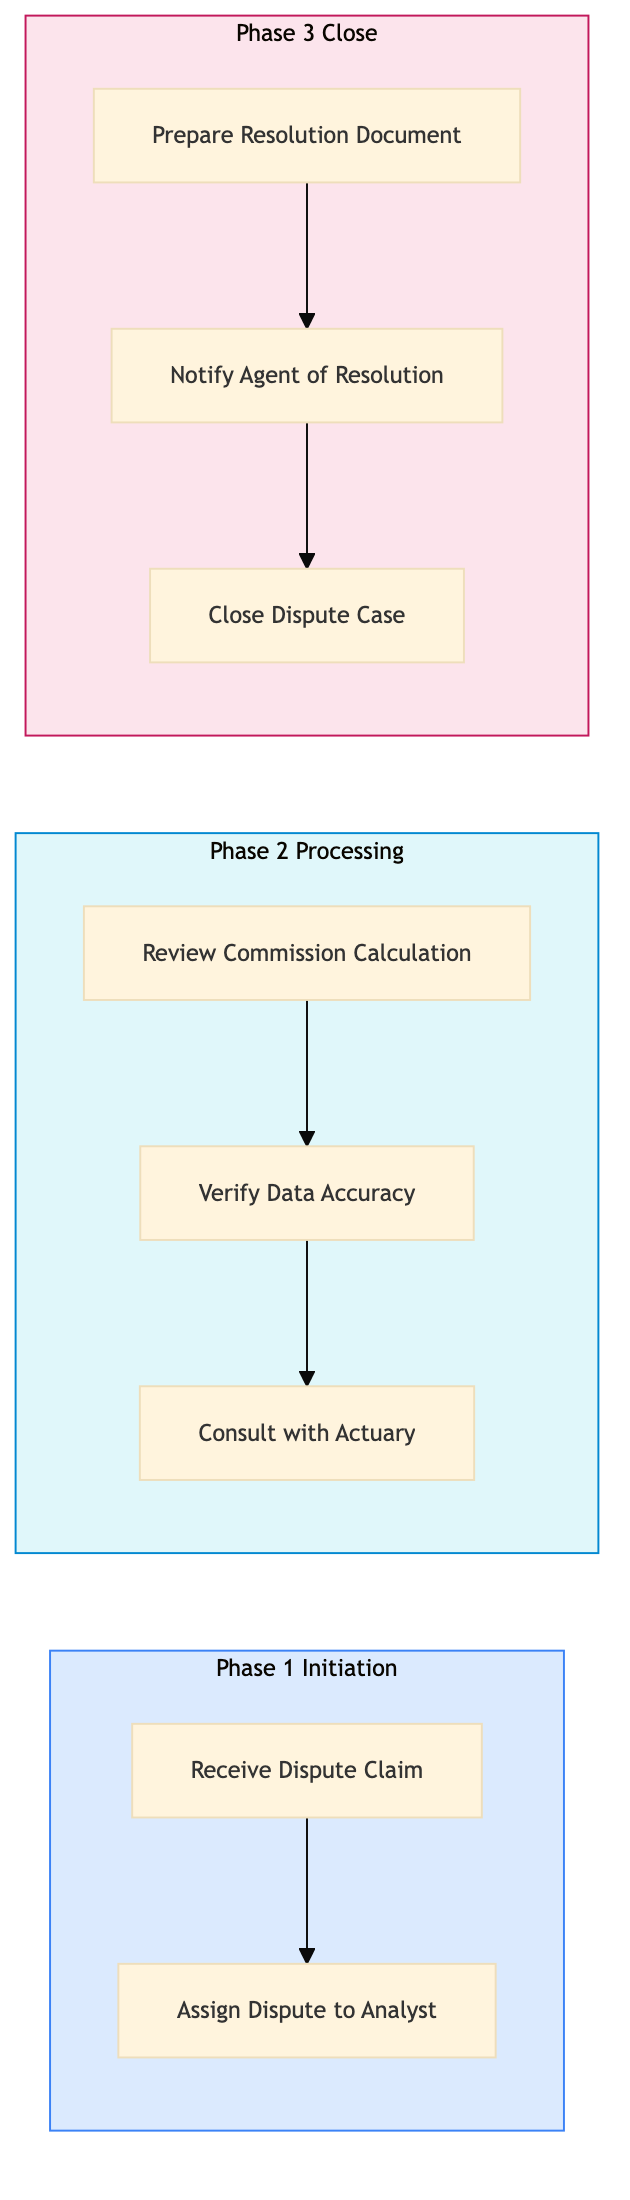
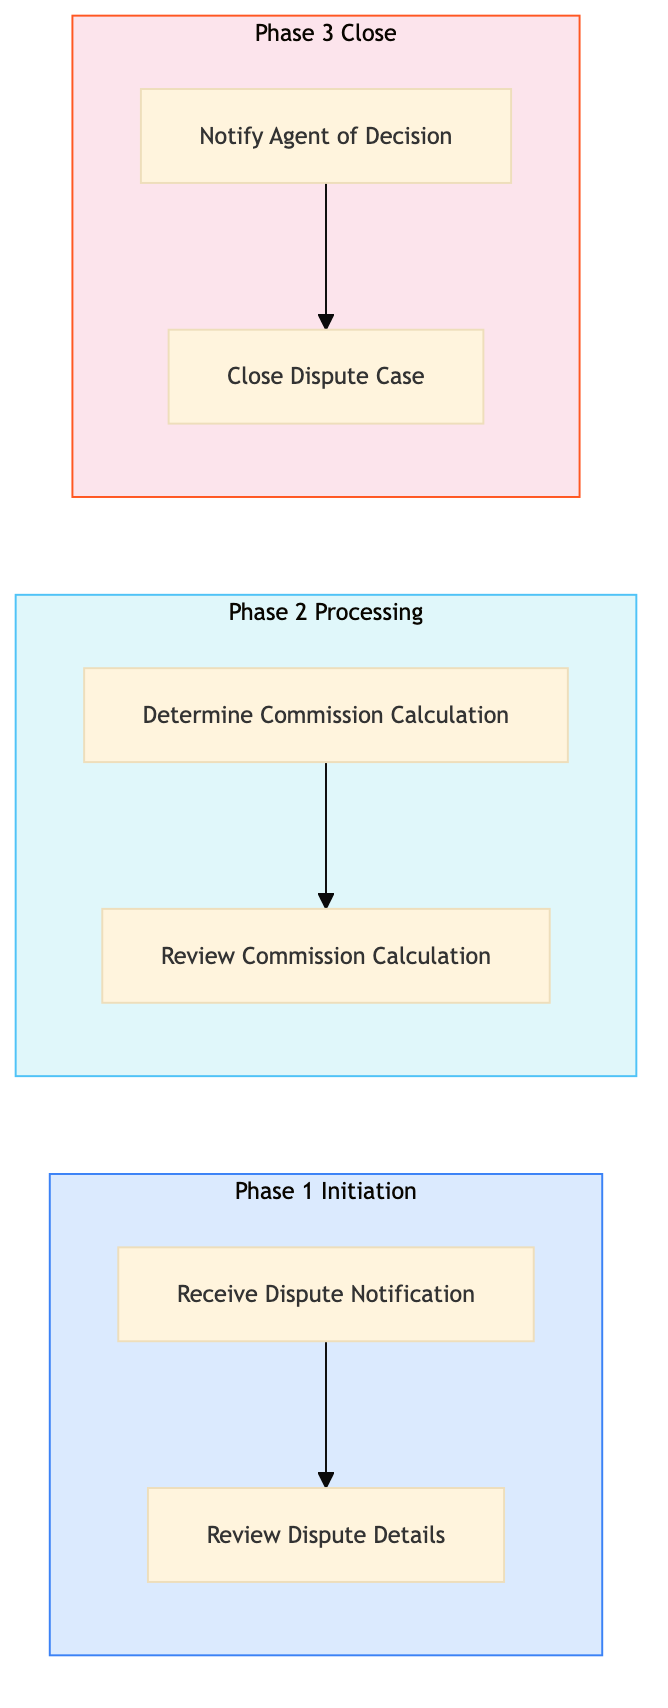
feat: add AAA-IN-AG-07 — Agent Commission Dispute Resolution

diff --git a/aaa-insurance/agency-operations/aaa-in-ag-07.html b/aaa-insurance/agency-operations/aaa-in-ag-07.html
@@ -23,40 +23,16 @@
     <div class="nav-l2-group">
       <a class="nav-l2-title" href="../../shared-membership/membership-enrolment/index.html">Membership Enrolment & Sales</a>
       <div class="nav-l3-list">
-        <a class="nav-l3" href="../../shared-membership/membership-enrolment/shared-mb-en-01.html">SHARED-MB-EN-01 &mdash; New Member Walk-In Enrolment (Branch)</a>
-        <a class="nav-l3" href="../../shared-membership/membership-enrolment/shared-mb-en-02.html">SHARED-MB-EN-02 &mdash; Online Membership Self-Enrolment (Web/Ap</a>
-        <a class="nav-l3" href="../../shared-membership/membership-enrolment/shared-mb-en-03.html">SHARED-MB-EN-03 &mdash; Phone Enrolment via Contact Centre</a>
-        <a class="nav-l3" href="../../shared-membership/membership-enrolment/shared-mb-en-04.html">SHARED-MB-EN-04 &mdash; Affiliate and Employer Group Enrolment</a>
-        <a class="nav-l3" href="../../shared-membership/membership-enrolment/shared-mb-en-05.html">SHARED-MB-EN-05 &mdash; Membership Tier Selection and Upsell</a>
-        <a class="nav-l3" href="../../shared-membership/membership-enrolment/shared-mb-en-06.html">SHARED-MB-EN-06 &mdash; Payment Processing and First-Year Billin</a>
-        <a class="nav-l3" href="../../shared-membership/membership-enrolment/shared-mb-en-07.html">SHARED-MB-EN-07 &mdash; Welcome Kit and Digital Card Issuance</a>
-        <a class="nav-l3" href="../../shared-membership/membership-enrolment/shared-mb-en-08.html">SHARED-MB-EN-08 &mdash; Duplicate Member Detection and Merge</a>
       </div>
     </div>
     <div class="nav-l2-group">
       <a class="nav-l2-title" href="../../shared-membership/membership-renewal/index.html">Membership Renewal & Retention</a>
       <div class="nav-l3-list">
-        <a class="nav-l3" href="../../shared-membership/membership-renewal/shared-mb-rn-01.html">SHARED-MB-RN-01 &mdash; Annual Renewal Notice Generation and Dis</a>
-        <a class="nav-l3" href="../../shared-membership/membership-renewal/shared-mb-rn-02.html">SHARED-MB-RN-02 &mdash; Auto-Renewal Processing (Credit Card on </a>
-        <a class="nav-l3" href="../../shared-membership/membership-renewal/shared-mb-rn-03.html">SHARED-MB-RN-03 &mdash; Lapsed Member Reinstatement Campaign</a>
-        <a class="nav-l3" href="../../shared-membership/membership-renewal/shared-mb-rn-04.html">SHARED-MB-RN-04 &mdash; Membership Upgrade and Tier Change Proce</a>
-        <a class="nav-l3" href="../../shared-membership/membership-renewal/shared-mb-rn-05.html">SHARED-MB-RN-05 &mdash; Associate and Household Member Add-On Pr</a>
-        <a class="nav-l3" href="../../shared-membership/membership-renewal/shared-mb-rn-06.html">SHARED-MB-RN-06 &mdash; Cancellation Request Handling and Save O</a>
-        <a class="nav-l3" href="../../shared-membership/membership-renewal/shared-mb-rn-07.html">SHARED-MB-RN-07 &mdash; Renewal Rate Review and Pricing Update</a>
-        <a class="nav-l3" href="../../shared-membership/membership-renewal/shared-mb-rn-08.html">SHARED-MB-RN-08 &mdash; Membership Winback Campaign (12-36 Month</a>
       </div>
     </div>
     <div class="nav-l2-group">
       <a class="nav-l2-title" href="../../shared-membership/member-services/index.html">Member Services & Benefits</a>
       <div class="nav-l3-list">
-        <a class="nav-l3" href="../../shared-membership/member-services/shared-mb-sv-01.html">SHARED-MB-SV-01 &mdash; Member Discount Partner Redemption</a>
-        <a class="nav-l3" href="../../shared-membership/member-services/shared-mb-sv-02.html">SHARED-MB-SV-02 &mdash; Passport Photo Service Delivery (Branch)</a>
-        <a class="nav-l3" href="../../shared-membership/member-services/shared-mb-sv-03.html">SHARED-MB-SV-03 &mdash; International Driving Permit (IDP) Proce</a>
-        <a class="nav-l3" href="../../shared-membership/member-services/shared-mb-sv-04.html">SHARED-MB-SV-04 &mdash; Notary and Document Authentication Servi</a>
-        <a class="nav-l3" href="../../shared-membership/member-services/shared-mb-sv-05.html">SHARED-MB-SV-05 &mdash; Member Portal Profile and Preferences Ma</a>
-        <a class="nav-l3" href="../../shared-membership/member-services/shared-mb-sv-06.html">SHARED-MB-SV-06 &mdash; Lost and Stolen Membership Card Replacem</a>
-        <a class="nav-l3" href="../../shared-membership/member-services/shared-mb-sv-07.html">SHARED-MB-SV-07 &mdash; Member Data Privacy Request (CCPA and PI</a>
-        <a class="nav-l3" href="../../shared-membership/member-services/shared-mb-sv-08.html">SHARED-MB-SV-08 &mdash; Member Satisfaction Survey and NPS Track</a>
       </div>
     </div>
   </div>
@@ -310,7 +286,7 @@
           <span class="pid-badge org-badge-aaa">AAA</span>
           AAA-IN-AG-07 &mdash; Agent Commission Dispute Resolution
         </h1>
-        <p>This process resolves disputes regarding agent commissions for AAA Northeast. It involves reviewing commission calculations, verifying data accuracy, and communicating the resolution to all parties involved.</p>
+        <p>This process outlines the steps for resolving agent commission disputes within AAA Northeast. It involves communication between agents, management, and external systems to ensure fair resolution.</p>
       </div>
 
       <!-- BPMN Diagram -->
@@ -336,10 +312,10 @@
             <tr><th>L1 Domain</th><td>AAA Insurance</td></tr>
             <tr><th>L2 Process</th><td>Insurance Agency Operations</td></tr>
             <tr><th>L3 Name</th><td>Agent Commission Dispute Resolution</td></tr>
-            <tr><th>Trigger</th><td>A licensed insurance agent submits a formal dispute claim through the Salesforce platform.</td></tr>
-            <tr><th>Outcome</th><td>The dispute is resolved with a clear decision on the commission amount, documented in both Guidewire Cloud and Salesforce systems. The agent receives a notification of the resolution via email.</td></tr>
-            <tr><th>Org Notes</th><td>AAA Northeast specifically uses the Guidewire Cloud for policy management and claims processing, whereas CAA SCO might use different tools like ClientBase and Power BI.</td></tr>
-            <tr><th>Systems</th><td><span class="sys-tag salesforce">Salesforce</span> <span class="sys-tag guidewire">Guidewire Cloud</span> <span class="sys-tag sabre">Sabre GDS</span> <span class="sys-tag verisk">Verisk ISO rating</span></td></tr>
+            <tr><th>Trigger</th><td>A licensed insurance agent initiates a dispute regarding their commission payment or calculation.</td></tr>
+            <tr><th>Outcome</th><td>The successful completion of this process results in a resolution that is accepted by the agent, ensuring fairness and adherence to AAA policies.</td></tr>
+            <tr><th>Org Notes</th><td>AAA Northeast may have specific regional policies and procedures that differ from other AAA regions. Additionally, the use of Guidewire Cloud for policy management and Salesforce for customer interactions adds complexity compared to CAA's processes.</td></tr>
+            <tr><th>Systems</th><td><span class="sys-tag guidewire">Guidewire Cloud</span> <span class="sys-tag salesforce">Salesforce</span> <span class="sys-tag verisk">Verisk ISO rating</span></td></tr>
           </table>
         </div>
       </div>
@@ -360,97 +336,73 @@
               <tbody>
         <tr>
           <td class="step-num">1.1</td>
-          <td>Receive Dispute Claim</td>
+          <td>Receive Dispute Notification</td>
           <td>Licensed Insurance Agent</td>
           <td><span class="sys-tag salesforce">Salesforce</span></td>
-          <td>Dispute claim form</td>
-          <td>Dispute ticket in Salesforce</td>
-          <td>Time to acknowledge dispute within 24 hours</td>
-          <td>Delays in acknowledging disputes can lead to customer dissatisfaction.</td>
+          <td>Dispute Form</td>
+          <td>Acknowledgment Email</td>
+          <td>Time to Acknowledge < 24 hours</td>
+          <td>Delays in dispute acknowledgment can escalate tensions.</td>
           <td>N</td>
           <td><span class="exception-y">Y</span></td>
         </tr>
         <tr>
           <td class="step-num">1.2</td>
-          <td>Assign Dispute to Analyst</td>
-          <td>Insurance Operations Analyst</td>
-          <td><span class="sys-tag salesforce">Salesforce</span></td>
-          <td>Dispute ticket in Salesforce</td>
-          <td>Assigned dispute case</td>
-          <td>Cases assigned within 4 hours of receipt</td>
-          <td>Overlooking disputes can result in prolonged resolution times.</td>
+          <td>Review Dispute Details</td>
+          <td>Agent Relations Manager</td>
+          <td><span class="sys-tag guidewire">Guidewire Cloud</span></td>
+          <td>Dispute Form and Policy Records</td>
+          <td>Dispute Review Report</td>
+          <td>Time to Review < 48 hours</td>
+          <td>Inaccurate policy data can lead to incorrect dispute resolutions.</td>
+          <td><span class="decision-y">Y</span></td>
           <td>N</td>
-          <td><span class="exception-y">Y</span></td>
         </tr>
         <tr>
           <td class="step-num">2.1</td>
-          <td>Review Commission Calculation</td>
-          <td>Insurance Operations Analyst</td>
-          <td><span class="sys-tag guidewire">Guidewire Cloud</span></td>
-          <td>Agent's policy data and commission rules</td>
-          <td>Commission calculation report</td>
-          <td>Calculation review completed within 24 hours</td>
-          <td>Inaccurate calculations can lead to disputes.</td>
+          <td>Determine Commission Calculation</td>
+          <td>Claims Adjuster</td>
+          <td><span class="sys-tag verisk">Verisk ISO rating</span></td>
+          <td>Policy Records and Claim Data</td>
+          <td>Commission Calculation Report</td>
+          <td>Accuracy of Calculation > 95%</td>
+          <td>Errors in commission calculations can lead to disputes.</td>
           <td><span class="decision-y">Y</span></td>
           <td>N</td>
         </tr>
         <tr>
           <td class="step-num">2.2</td>
-          <td>Verify Data Accuracy</td>
-          <td>Data Analyst</td>
-          <td><span class="sys-tag sabre">Sabre GDS</span></td>
-          <td>Policy transaction data</td>
-          <td>Data verification report</td>
-          <td>Data verification completed within 48 hours</td>
-          <td>Incorrect data can lead to erroneous calculations.</td>
-          <td><span class="decision-y">Y</span></td>
-          <td>N</td>
-        </tr>
-        <tr>
-          <td class="step-num">2.3</td>
-          <td>Consult with Actuary</td>
-          <td>Actuary</td>
-          <td><span class="sys-tag verisk">Verisk ISO rating</span></td>
-          <td>Commission calculation report and data verification report</td>
-          <td>Actuarial review report</td>
-          <td>Actuarial review completed within 72 hours</td>
-          <td>Inconsistent actuarial guidance can complicate dispute resolution.</td>
+          <td>Review Commission Calculation</td>
+          <td>Agent Relations Manager</td>
+          <td><span class="sys-tag guidewire">Guidewire Cloud</span></td>
+          <td>Commission Calculation Report</td>
+          <td>Final Commission Decision</td>
+          <td>Time to Final Decision < 72 hours</td>
+          <td>Delays in final decision-making can frustrate agents.</td>
           <td><span class="decision-y">Y</span></td>
           <td>N</td>
         </tr>
         <tr>
           <td class="step-num">3.1</td>
-          <td>Prepare Resolution Document</td>
-          <td>Insurance Operations Analyst</td>
-          <td><span class="sys-tag guidewire">Guidewire Cloud and Salesforce</span></td>
-          <td>Actuarial review report</td>
-          <td>Resolution document</td>
-          <td>Resolution document prepared within 24 hours of actuarial review</td>
-          <td>Delays in preparing the resolution can prolong the dispute.</td>
+          <td>Notify Agent of Decision</td>
+          <td>Agent Relations Manager</td>
+          <td><span class="sys-tag salesforce">Salesforce</span></td>
+          <td>Final Commission Decision</td>
+          <td>Notification Email</td>
+          <td>Time to Notify < 24 hours</td>
+          <td>Late notifications can cause further dissatisfaction.</td>
           <td>N</td>
           <td><span class="exception-y">Y</span></td>
         </tr>
         <tr>
           <td class="step-num">3.2</td>
-          <td>Notify Agent of Resolution</td>
-          <td>Insurance Operations Analyst</td>
-          <td><span class="sys-tag salesforce">Salesforce and Email</span></td>
-          <td>Resolution document</td>
-          <td>Notification email to agent</td>
-          <td>Agent notified within 48 hours of resolution preparation</td>
-          <td>Failure to notify promptly can lead to unresolved disputes.</td>
-          <td>N</td>
-          <td><span class="exception-y">Y</span></td>
-        </tr>
-        <tr>
-          <td class="step-num">3.3</td>
           <td>Close Dispute Case</td>
-          <td>Insurance Operations Analyst</td>
-          <td><span class="sys-tag salesforce">Salesforce</span></td>
-          <td>Notification email confirmation</td>
-          <td>Closed dispute case in Salesforce</td>
-          <td>Dispute case closed within 24 hours of notification</td>
-          <td>Open cases can lead to ongoing administrative burdens.</td>
+          <td>Agent Relations Manager</td>
+          <td><span class="sys-tag guidewire">Guidewire Cloud</span></td>
+          <td>Final Commission Decision and Agent Acknowledgment</td>
+          <td>Closed Dispute Case</td>
+          <td>Dispute Resolution Rate > 90%</td>
+          <td>Unresolved disputes can lead to ongoing issues.</td>
           <td>N</td>
           <td><span class="exception-y">Y</span></td>
         </tr>
@@ -465,9 +417,9 @@
         <div class="card-header">&#x1F4CA; KPIs &amp; Risk Register</div>
         <div class="card-body">
           <p class="mb-8"><strong>KPIs</strong></p>
-          <div class="kpi-list mb-8"><span class="kpi-pill">Time to acknowledge dispute within 24 hours</span> <span class="kpi-pill">Cases assigned within 4 hours of receipt</span> <span class="kpi-pill">Calculation review completed within 24 hours</span> <span class="kpi-pill">Data verification completed within 48 hours</span> <span class="kpi-pill">Actuarial review completed within 72 hours</span></div>
+          <div class="kpi-list mb-8"><span class="kpi-pill">Time to Acknowledge < 24 hours</span> <span class="kpi-pill">Accuracy of Calculation > 95%</span> <span class="kpi-pill">Time to Final Decision < 72 hours</span> <span class="kpi-pill">Time to Notify < 24 hours</span> <span class="kpi-pill">Dispute Resolution Rate > 90%</span></div>
           <p class="mb-8" style="margin-top:16px"><strong>Key Risks</strong></p>
-          <div class="kpi-list"><span class="risk-pill">Inaccurate commission calculations leading to disputes</span> <span class="risk-pill">Incorrect data in Sabre GDS causing erroneous reviews</span> <span class="risk-pill">Delays in actuarial guidance complicating dispute resolution</span> <span class="risk-pill">Failure to notify agents promptly resulting in unresolved cases</span> <span class="risk-pill">Open dispute cases creating administrative burdens</span></div>
+          <div class="kpi-list"><span class="risk-pill">Inaccurate policy data leading to incorrect dispute resolutions.</span> <span class="risk-pill">Errors in commission calculations causing disputes.</span> <span class="risk-pill">Delays in final decision-making frustrating agents.</span> <span class="risk-pill">Late notifications causing further dissatisfaction.</span> <span class="risk-pill">Unresolved disputes leading to ongoing issues.</span></div>
         </div>
       </div>
 

diff --git a/aaa-insurance/agency-operations/index.html b/aaa-insurance/agency-operations/index.html
@@ -87,6 +87,7 @@
         <a class="nav-l3" href="../../aaa-insurance/agency-operations/aaa-in-ag-03.html">AAA-IN-AG-03 &mdash; Agency Performance Reporting and Scoreca</a>
         <a class="nav-l3" href="../../aaa-insurance/agency-operations/aaa-in-ag-04.html">AAA-IN-AG-04 &mdash; E and O Compliance Review</a>
         <a class="nav-l3" href="../../aaa-insurance/agency-operations/aaa-in-ag-05.html">AAA-IN-AG-05 &mdash; Cross-Sell Insurance to Existing AAA Mem</a>
+        <a class="nav-l3" href="../../aaa-insurance/agency-operations/aaa-in-ag-06.html">AAA-IN-AG-06 &mdash; Insurance Lead Management and Pipeline (</a>
       </div>
     </div>
   </div>
@@ -278,7 +279,7 @@
           <a href="../index.html">AAA Insurance</a>
         </div>
         <h1>🛡 Insurance Agency Operations</h1>
-        <p>5 of 8 processes complete</p>
+        <p>6 of 8 processes complete</p>
       </div>
       <div class="card">
         <div class="card-header">Process List</div>
@@ -290,7 +291,7 @@
 <tr><td><a href="aaa-in-ag-03.html">AAA-IN-AG-03</a></td><td>Agency Performance Reporting and Scorecard</td><td><span style="color:#16a34a;font-weight:700">&#x2705; Complete</span></td></tr>
 <tr><td><a href="aaa-in-ag-04.html">AAA-IN-AG-04</a></td><td>E and O Compliance Review</td><td><span style="color:#16a34a;font-weight:700">&#x2705; Complete</span></td></tr>
 <tr><td><a href="aaa-in-ag-05.html">AAA-IN-AG-05</a></td><td>Cross-Sell Insurance to Existing AAA Members</td><td><span style="color:#16a34a;font-weight:700">&#x2705; Complete</span></td></tr>
-<tr><td>AAA-IN-AG-06</td><td>Insurance Lead Management and Pipeline (Salesforce)</td><td><span style="color:#94a3b8">&#x23F3; Queued</span></td></tr>
+<tr><td><a href="aaa-in-ag-06.html">AAA-IN-AG-06</a></td><td>Insurance Lead Management and Pipeline (Salesforce)</td><td><span style="color:#16a34a;font-weight:700">&#x2705; Complete</span></td></tr>
 <tr><td>AAA-IN-AG-07</td><td>Agent Commission Dispute Resolution</td><td><span style="color:#94a3b8">&#x23F3; Queued</span></td></tr>
 <tr><td>AAA-IN-AG-08</td><td>AAA Approved Auto Repair Insurance Referral Process</td><td><span style="color:#94a3b8">&#x23F3; Queued</span></td></tr>
 </tbody>

diff --git a/index.html b/index.html
@@ -87,6 +87,7 @@
         <a class="nav-l3" href="aaa-insurance/agency-operations/aaa-in-ag-03.html">AAA-IN-AG-03 &mdash; Agency Performance Reporting and Scoreca</a>
         <a class="nav-l3" href="aaa-insurance/agency-operations/aaa-in-ag-04.html">AAA-IN-AG-04 &mdash; E and O Compliance Review</a>
         <a class="nav-l3" href="aaa-insurance/agency-operations/aaa-in-ag-05.html">AAA-IN-AG-05 &mdash; Cross-Sell Insurance to Existing AAA Mem</a>
+        <a class="nav-l3" href="aaa-insurance/agency-operations/aaa-in-ag-06.html">AAA-IN-AG-06 &mdash; Insurance Lead Management and Pipeline (</a>
       </div>
     </div>
   </div>
@@ -278,9 +279,9 @@
       </div>
 
       <div class="stats-bar">
-        <div class="stat-card"><div class="stat-num">31</div><div class="stat-label">Processes Complete</div></div>
+        <div class="stat-card"><div class="stat-num">32</div><div class="stat-label">Processes Complete</div></div>
         <div class="stat-card"><div class="stat-num">268</div><div class="stat-label">Total Processes</div></div>
-        <div class="stat-card"><div class="stat-num">31</div><div class="stat-label">AAA Complete</div></div>
+        <div class="stat-card"><div class="stat-num">32</div><div class="stat-label">AAA Complete</div></div>
         <div class="stat-card"><div class="stat-num caa-red">0</div><div class="stat-label">CAA Complete</div></div>
         <div class="stat-card"><div class="stat-num">0</div><div class="stat-label">Shared Complete</div></div>
       </div>
@@ -300,7 +301,7 @@
         <span class="nav-org-dot aaa" style="display:inline-block;margin-right:4px"></span>
         AAA
       </p>
-      <p class="card-count">31 / 34 processes complete</p>
+      <p class="card-count">32 / 34 processes complete</p>
     </div>
     <div class="domain-card org-caa">
       <h3><a href="caa-insurance/index.html">🍁 CAA Insurance (Ontario)</a></h3>

diff --git a/aaa-insurance/index.html b/aaa-insurance/index.html
@@ -87,6 +87,7 @@
         <a class="nav-l3" href="../aaa-insurance/agency-operations/aaa-in-ag-03.html">AAA-IN-AG-03 &mdash; Agency Performance Reporting and Scoreca</a>
         <a class="nav-l3" href="../aaa-insurance/agency-operations/aaa-in-ag-04.html">AAA-IN-AG-04 &mdash; E and O Compliance Review</a>
         <a class="nav-l3" href="../aaa-insurance/agency-operations/aaa-in-ag-05.html">AAA-IN-AG-05 &mdash; Cross-Sell Insurance to Existing AAA Mem</a>
+        <a class="nav-l3" href="../aaa-insurance/agency-operations/aaa-in-ag-06.html">AAA-IN-AG-06 &mdash; Insurance Lead Management and Pipeline (</a>
       </div>
     </div>
   </div>
@@ -275,7 +276,7 @@
       <div class="page-header">
         <div class="breadcrumb"><a href="../index.html">Home</a></div>
         <h1>🛡 AAA Insurance</h1>
-        <p>31 of 34 processes complete across 4 process groups</p>
+        <p>32 of 34 processes complete across 4 process groups</p>
       </div>
       <div class="domain-grid">    <div class="domain-card org-aaa">
       <h3><a href="insurance-quoting/index.html">Quoting & Underwriting</a></h3>
@@ -291,7 +292,7 @@
     </div>
     <div class="domain-card org-aaa">
       <h3><a href="agency-operations/index.html">Insurance Agency Operations</a></h3>
-      <p class="card-meta">5/8 processes complete</p>
+      <p class="card-meta">6/8 processes complete</p>
     </div>
 </div>
     </main>
